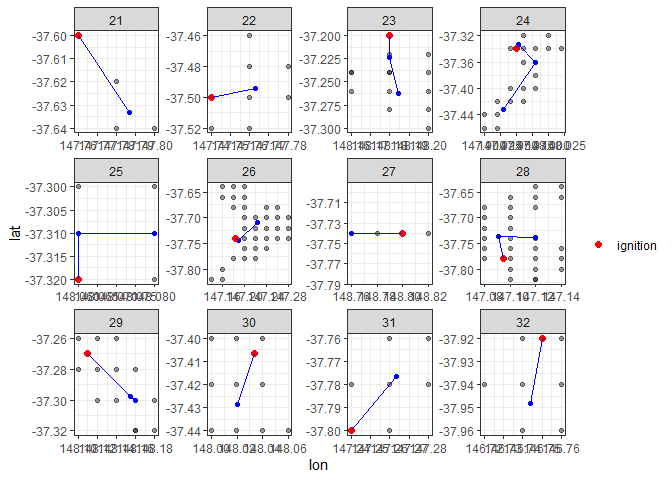
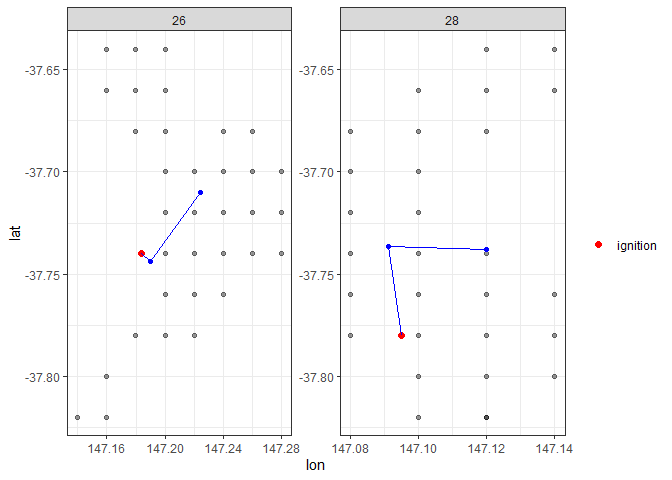
update readme

diff --git a/README.md b/README.md
@@ -89,7 +89,7 @@ result <- hotspot_cluster(hotspots500,
 #> √ Clustering
 #> √ Handle noise
 #> √ Compute ignition points
-#> i Time taken: 0 mins 1 sec for 500 obs (0.002 secs/obs)
+#> i Time taken: 0 mins 1 sec for 500 obs (0.003 secs/obs)
 #> i 38 fires found
 ```
 
@@ -188,7 +188,7 @@ plot(result,
 ``` r
 plot(result,
      type = "dynamic",
-     clusters = 21:32,
+     clusters = c(26, 28),
      hotspots = TRUE, 
      noises = FALSE)
 ```
